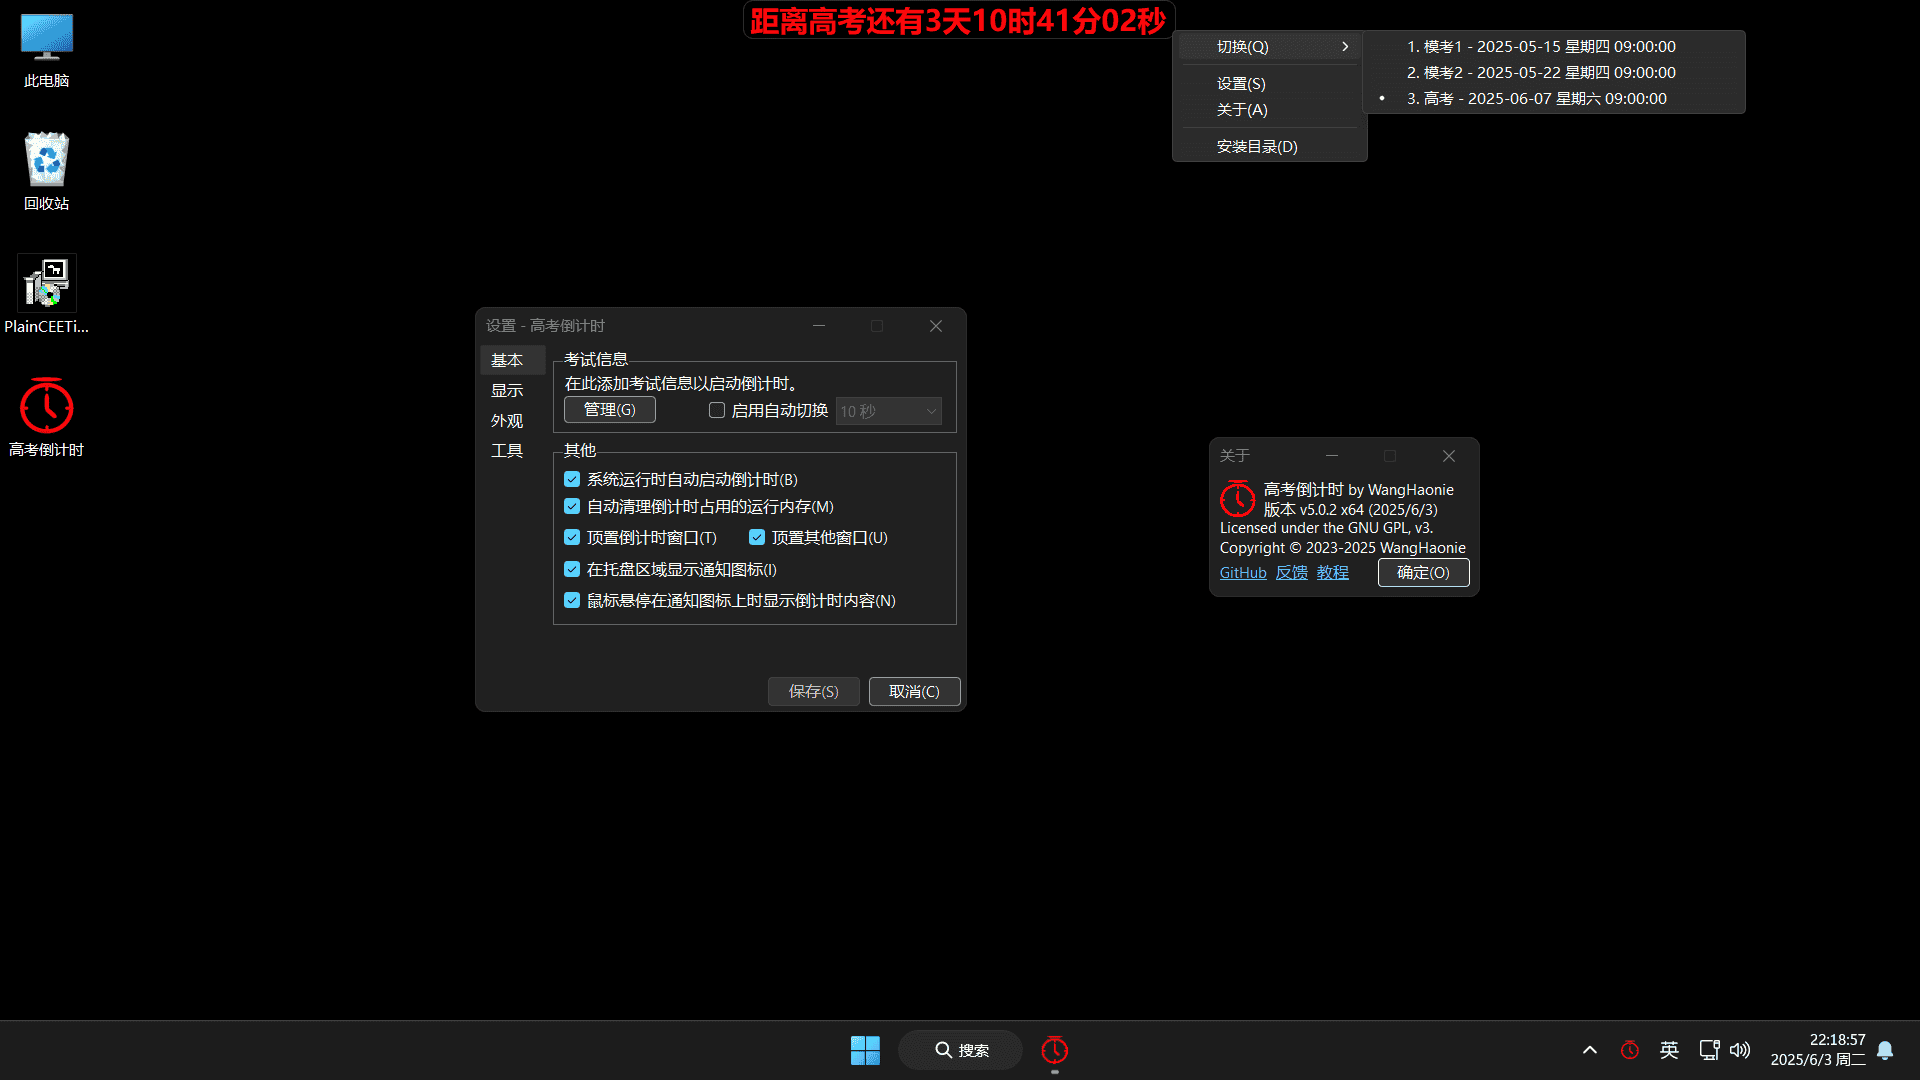
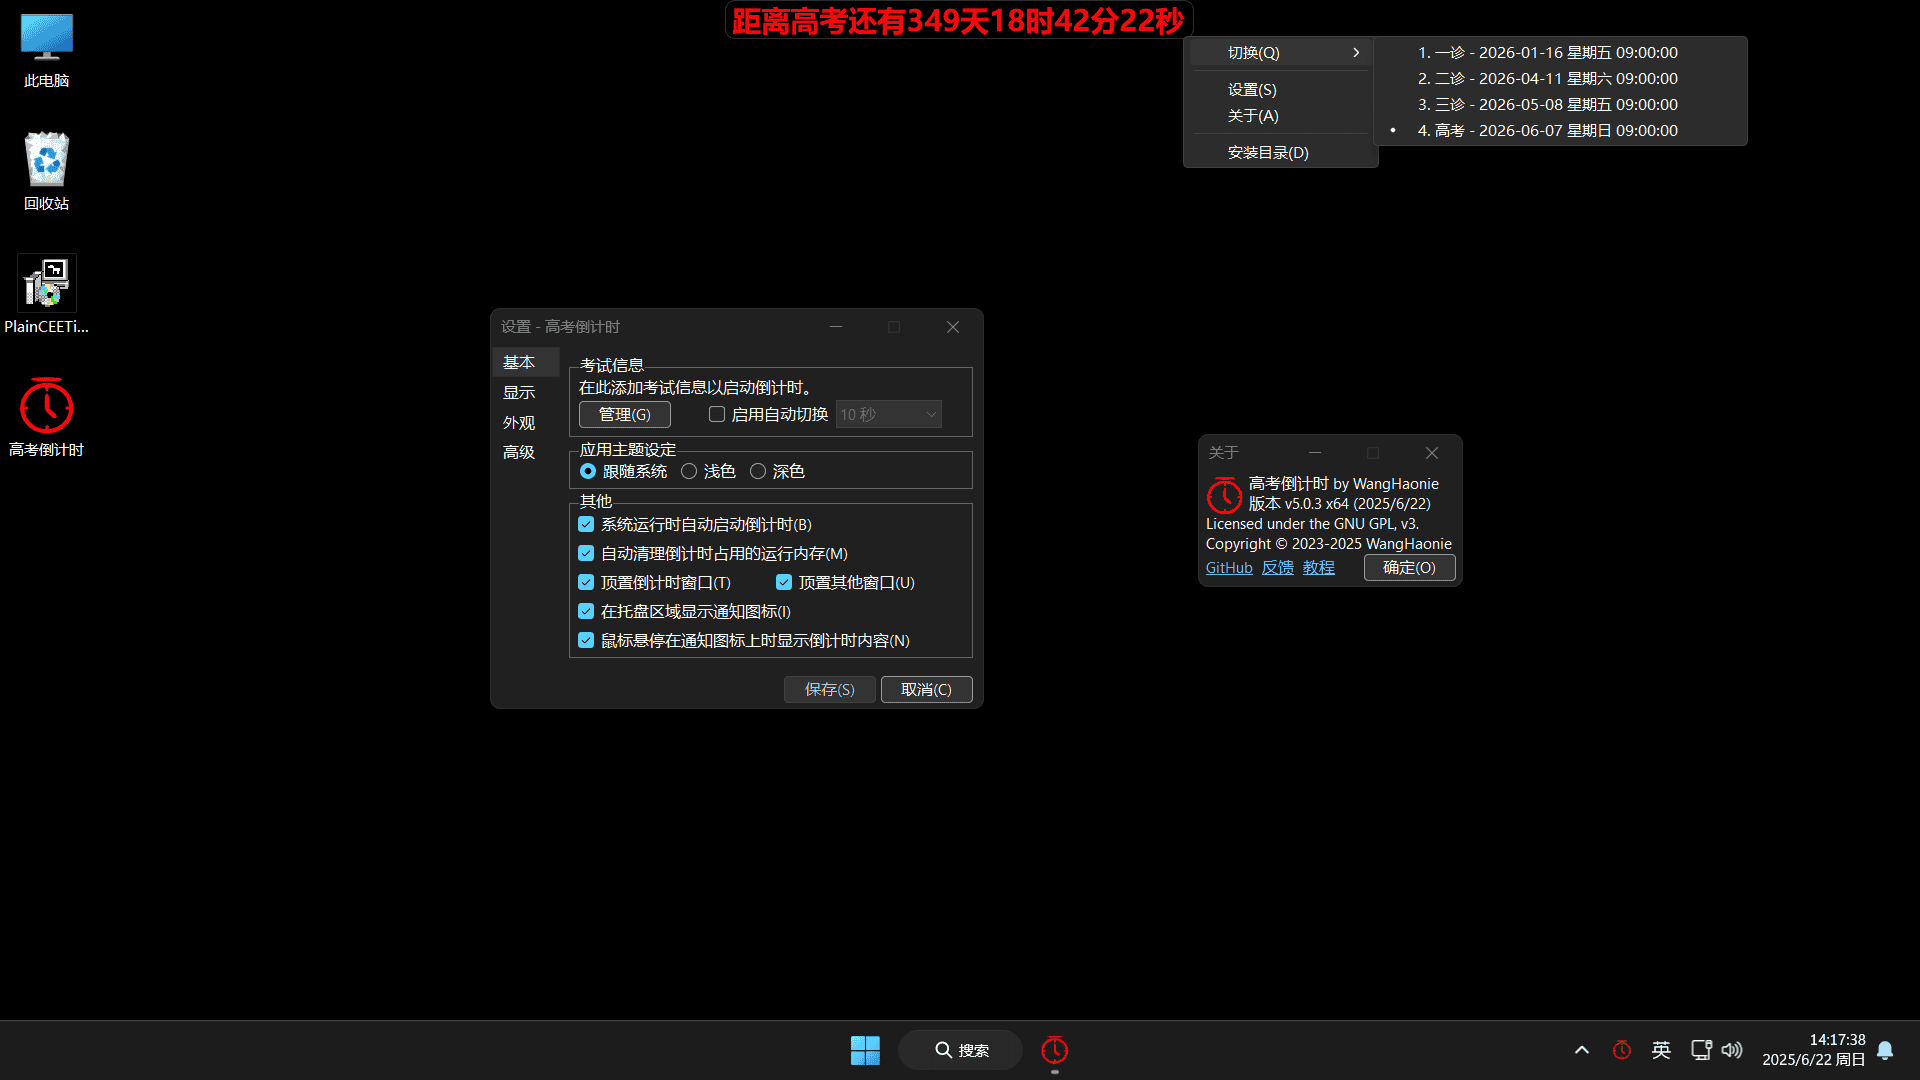
📢 发布了 v5.0.3

diff --git a/PlainCEETimer/Modules/App.cs b/PlainCEETimer/Modules/App.cs
@@ -42,7 +42,7 @@ namespace PlainCEETimer.Modules
         public const string UxThemeDll = "uxtheme.dll";
         public const string Shell32Dll = "shell32.dll";
         public const string Gdi32Dll = "gdi32.dll";
-        public const string AppVersion = "5.0.2";
+        public const string AppVersion = "5.0.3";
         public const string AppBuildDate = "2025/6/22";
         public const string CopyrightInfo = "Copyright © 2023-2025 WangHaonie";
         public const string DateTimeFormat = "yyyyMMddHHmmss";

diff --git a/.github/Manual.md b/.github/Manual.md
@@ -1,6 +1,6 @@
 <div align="center">
     <h1>PlainCEETimer 用户手册</h1>
-    <h4>适用于 v5.0.2 | 修订日期 2025/6/3</h4>
+    <h4>适用于 v5.0.3 | 修订日期 2025/6/22</h4>
 </div>
 
 # 📖 目录
@@ -105,6 +105,7 @@
 | ----- | ---- | ---- |
 | **管理** | 用于存储并管理考试信息以支持多倒计时功能。 | 详见 [🎯 考试信息管理器使用说明](#-考试信息管理器使用说明)。 |
 | **启用自动切换** | 当存在2个及以上的考试信息时，可启用自动切换功能轮流对各考试进行倒计时。切换间隔可在旁边的下拉菜单中选择。 |  |
+| **应用主题设定** | 用于更改除倒计时窗口以外的 UI 界面主题。可选 跟随系统/浅色/深色。 | 详见 [🎯 深色模式覆盖率一览](#-深色模式覆盖率一览)。仅支持 Windows 10 1903 及以上并且关闭了系统高对比度主题。跟随系统并不支持在运行时随系统主题的切换而切换，需手动重启的倒计时。 |
 | **系统运行时自动启动倒计时** | 设置倒计时开机启动。 |  |
 | **自动清理倒计时占用的运行内存** | 开启后，将每隔5分钟清理倒计时运行内存占用。 |  |
 | **顶置倒计时窗口** | 是否顶置倒计时窗口。 |  |
@@ -134,7 +135,6 @@
 | ----- | ---- | ---- |
 | **同步网络时钟** | 选择给定的 NTP 服务器并与之同步时钟。 | 将设置为系统默认 NTP 服务器且自动启动 Windows Time 服务。需要**管理员权限**，若无将弹出授权提示。 |
 | **重启倒计时** | 主要用于更改了屏幕缩放之后, 可以点击此按钮来重启程序以确保 UI 正常显示。 | 由于无法支持 `Per-Monitor V2`，需手动重启才能避免模糊。 |
-| **应用主题设置** | 用于更改除倒计时窗口以外的 UI 界面主题。可选 跟随系统/浅色/深色。 | 详见 [🎯 深色模式覆盖率一览](#-深色模式覆盖率一览)。仅支持 Windows 10 1903 及以上并且关闭了系统高对比度主题。跟随系统并不支持在运行时随系统主题的切换而切换，需手动重启的倒计时。 |
 | **关闭倒计时** | 退出倒计时 | `鼠标右键`单击 **重启倒计时** 触发 |
 | **命令行模式** | 进入命令行模式 (`cmd`) | `Ctrl` + `鼠标左键`单击 **重启倒计时** 触发 |
 
@@ -277,7 +277,7 @@
 
 | **一些例子** | **效果** |
 | ----- | ---- |
-| `距离{x}还有{d}.{h}:{m}:{s}` | `距离高考还有101.12:59:58` |
+| `距离{x}还有{d}:{h}:{m}:{s}` | `距离高考还有101:12:59:58` |
 | `还有{cd}天就{x}了,还不快抓紧复习!` | `还有102天就高考了,还不快抓紧复习!` |
 | `<更多玩法等你来发现>` |  |
 
@@ -307,7 +307,7 @@
 # 🎯 意外错误对话框使用说明
 
 > [!TIP]
-> 用于显示程序运行过程中出现的意外错误，同时会在安装目录里的 `UnhandledException.txt` 文件中写入异常信息。此时应及时将错误信息/日志上报到此仓库 Issues 版块。
+> 用于显示程序运行过程中出现的意外错误，同时会在安装目录里的 `UnhandledException.txt` 文件中写入异常信息。此时应及时将错误信息上报到此仓库 Issues 版块。
 
 | **选项** | **功能说明** |
 | ----- | ---- |
@@ -333,7 +333,7 @@
 2. 相关组件丢失，比如 (`Newtonsoft.Json.dll`、`PlainCEETimer.Natives.dll` 等)
 ## 双击打开后无界面显示且疑似闪退等异常且未弹出未知错误对话框
 1. `PlainCEETimer.Natives.dll` 丢失，请重新安装。
-2. 程序内部出错，请运行 `eventvwr.msc` 定位到 `Windows 日志` >`应用程序` 找到当时来源为 `.NET Runtime` 或 `Application Error` 的**错误**消息，确保来自，点击下方的**详细信息**选项卡，复制所有日志内容，然后上报到 [Issues](https://github.com/WangHaonie/PlainCEETimer/issues/new/choose)。
+2. 程序内部出错，请运行 `eventvwr.msc` 定位到 `Windows 日志` >`应用程序` 找到当时来源为 `.NET Runtime` 或 `Application Error` 的**错误**消息，点击下方的**详细信息**选项卡，复制所有日志内容，然后上报到 [Issues](https://github.com/WangHaonie/PlainCEETimer/issues/new/choose)。
 ## 无法设置/取消开机启动 或 "系统环境异常，无法进行更新"
 请不要在不同的用户会话中运行本程序。原因最可能是用户使用 **账户1** 登入系统，却以 **账户2** 的身份运行本程序。比如在普通账户里运行本程序时选择了 以管理员身份运行。此时应该保持在同一会话中运行本程序，即直接双击运行。
 ## "提权失败 当前系统已禁用 UAC"
